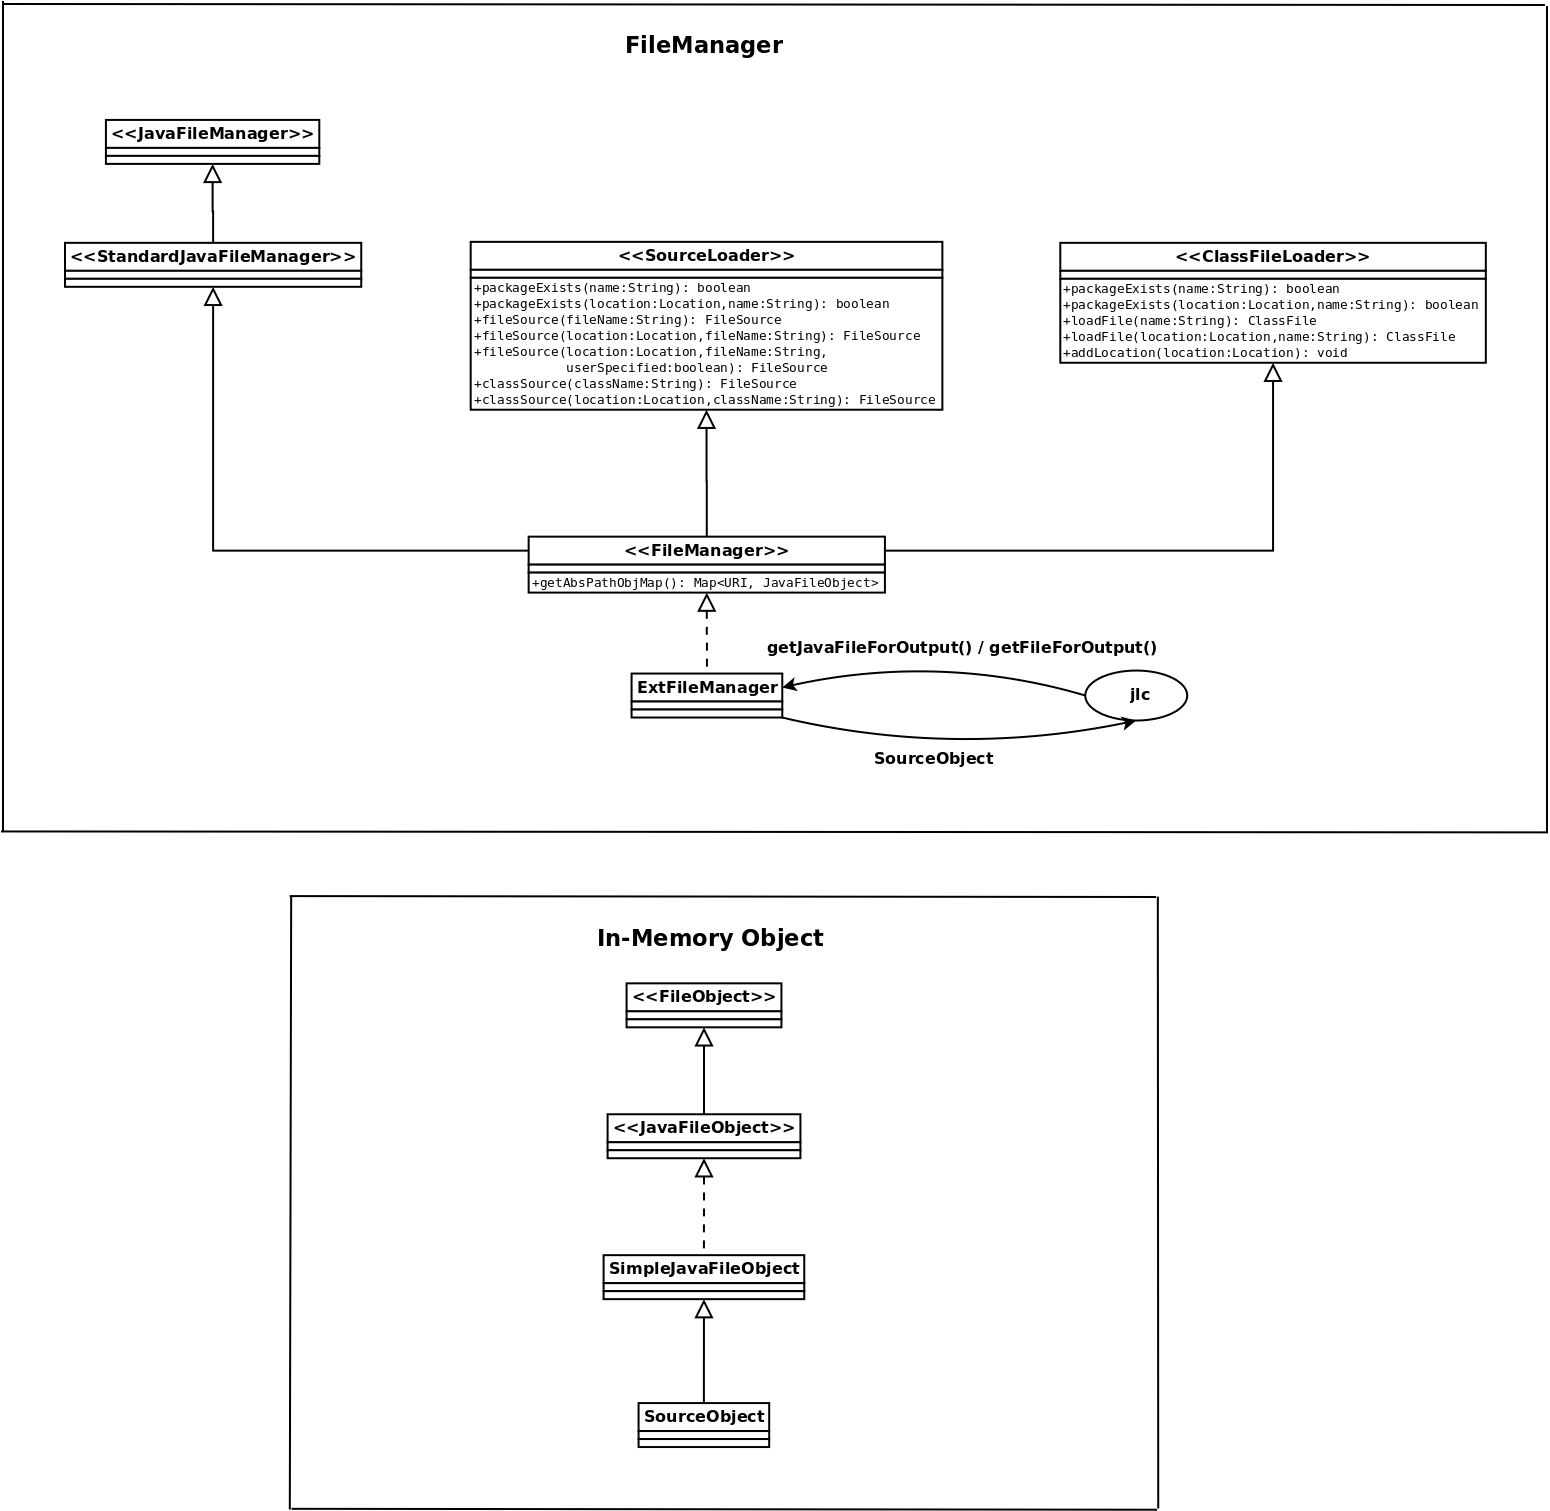
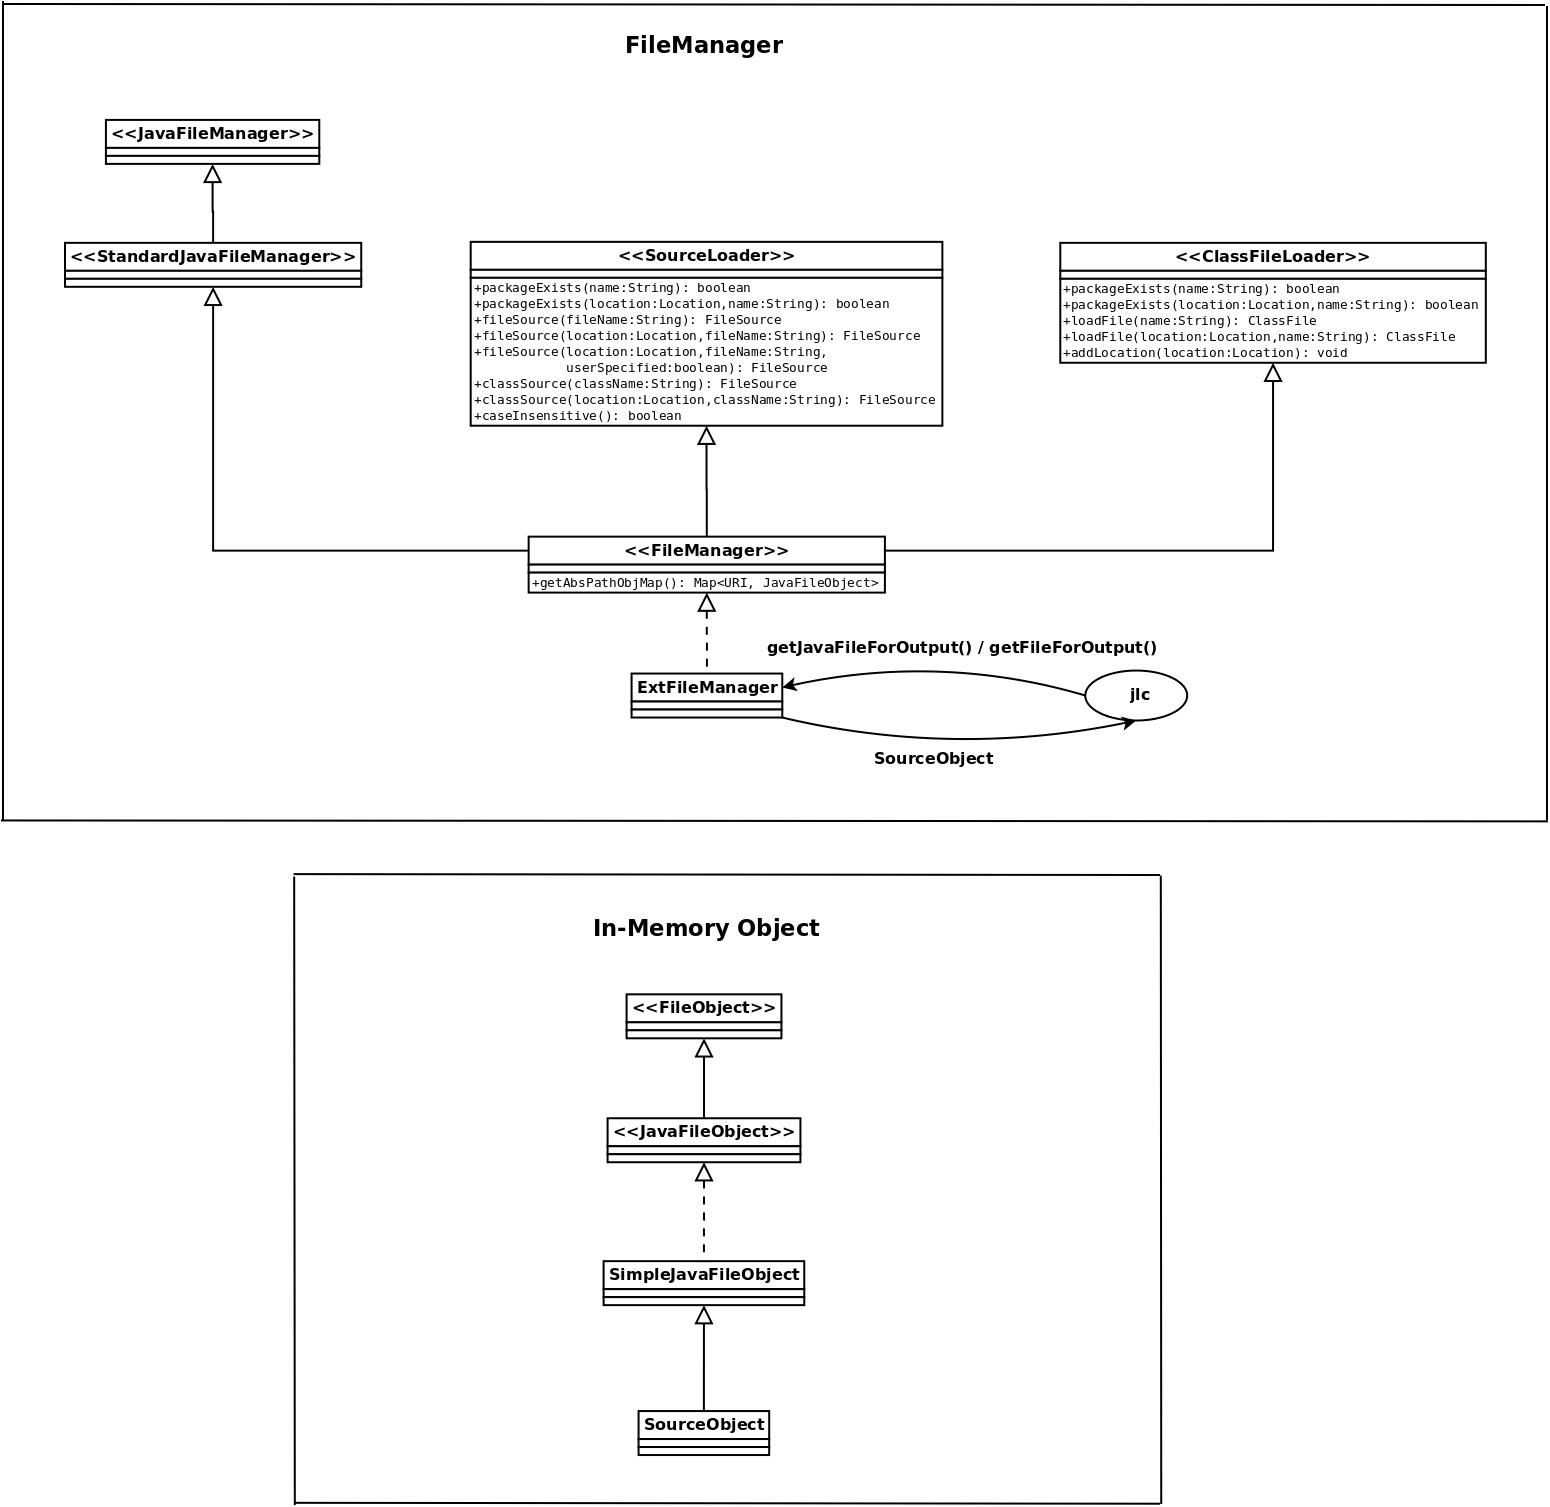
Added a caseInsensitive() method in SourceLoader interface and fixed the case-insensitive bug in this branch.

diff --git a/src/polyglot/filemanager/ExtFileManager.java b/src/polyglot/filemanager/ExtFileManager.java
@@ -590,6 +590,8 @@ public class ExtFileManager implements FileManager {
 	}
 
 	protected String fileKey(Location location, String packageName, String fileName) {
+		if (caseInsensitive())
+			return location + "/" + packageName.toLowerCase() + "/" + fileName.toLowerCase();
 		return location + "/" + packageName + "/" + fileName;
 	}
 
